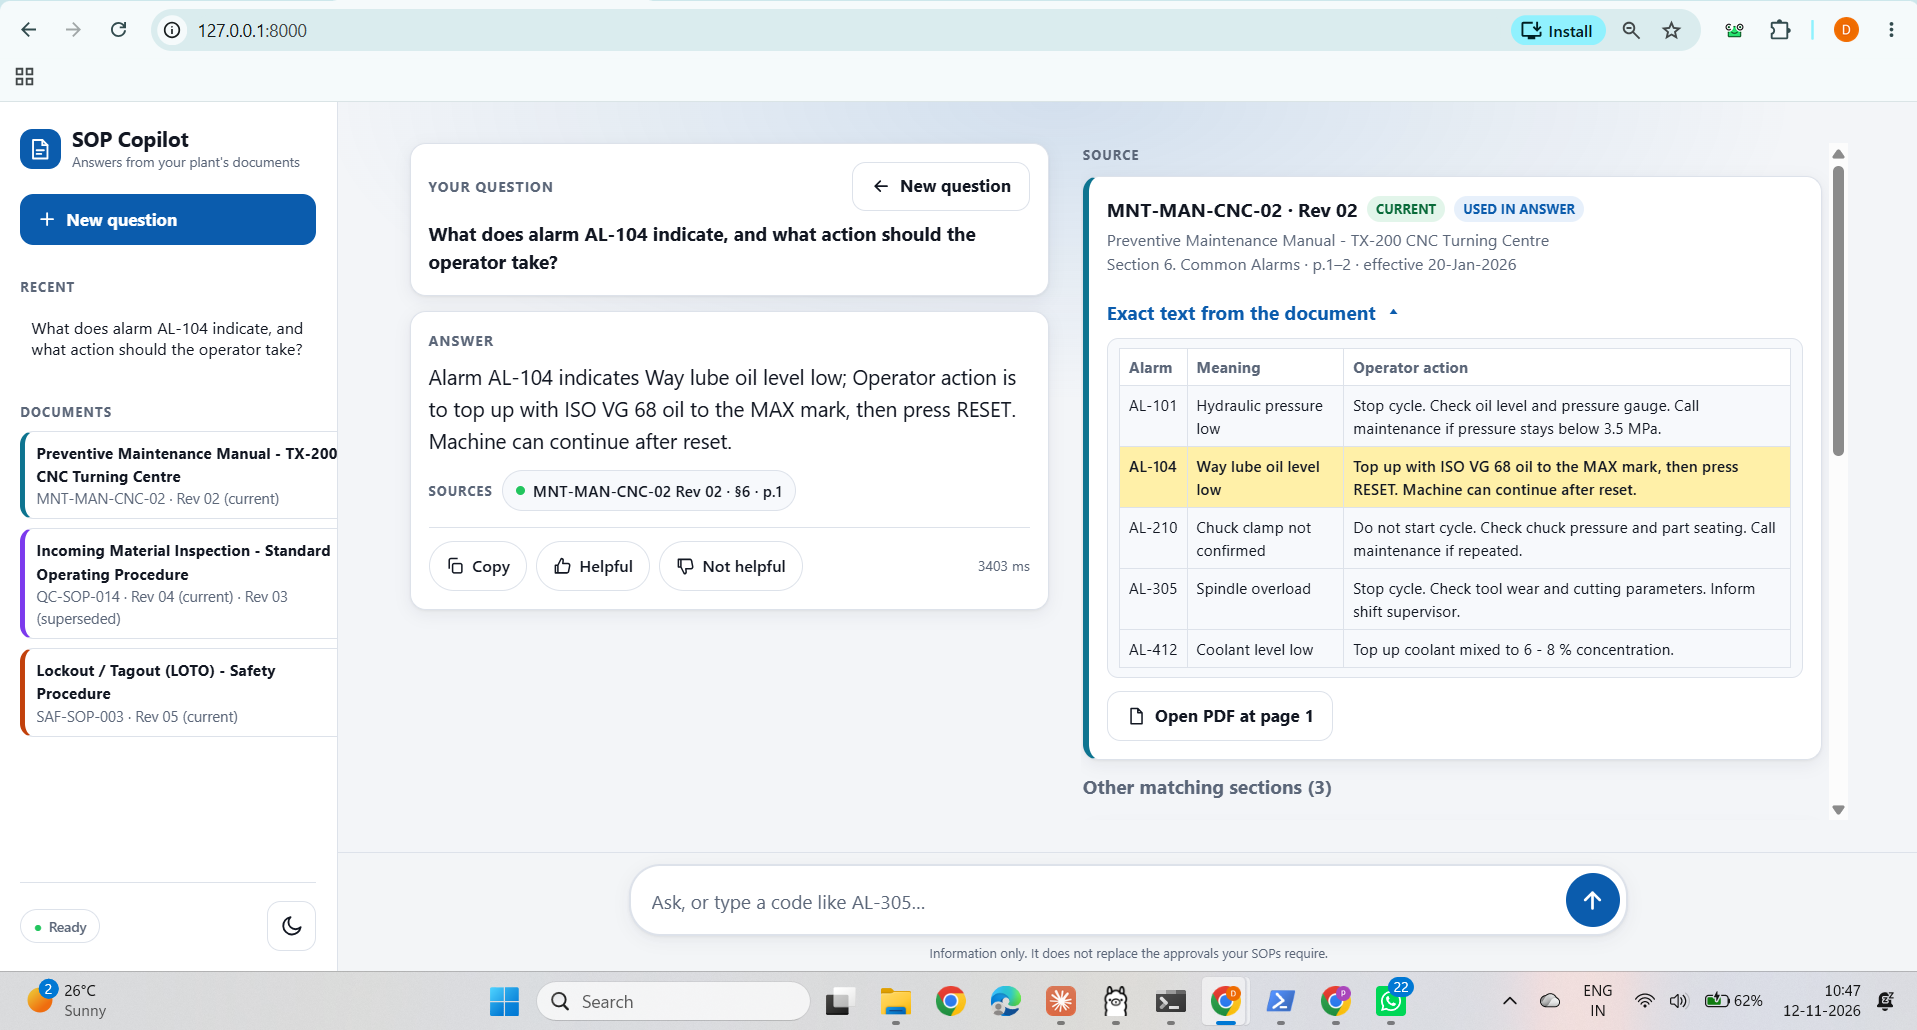
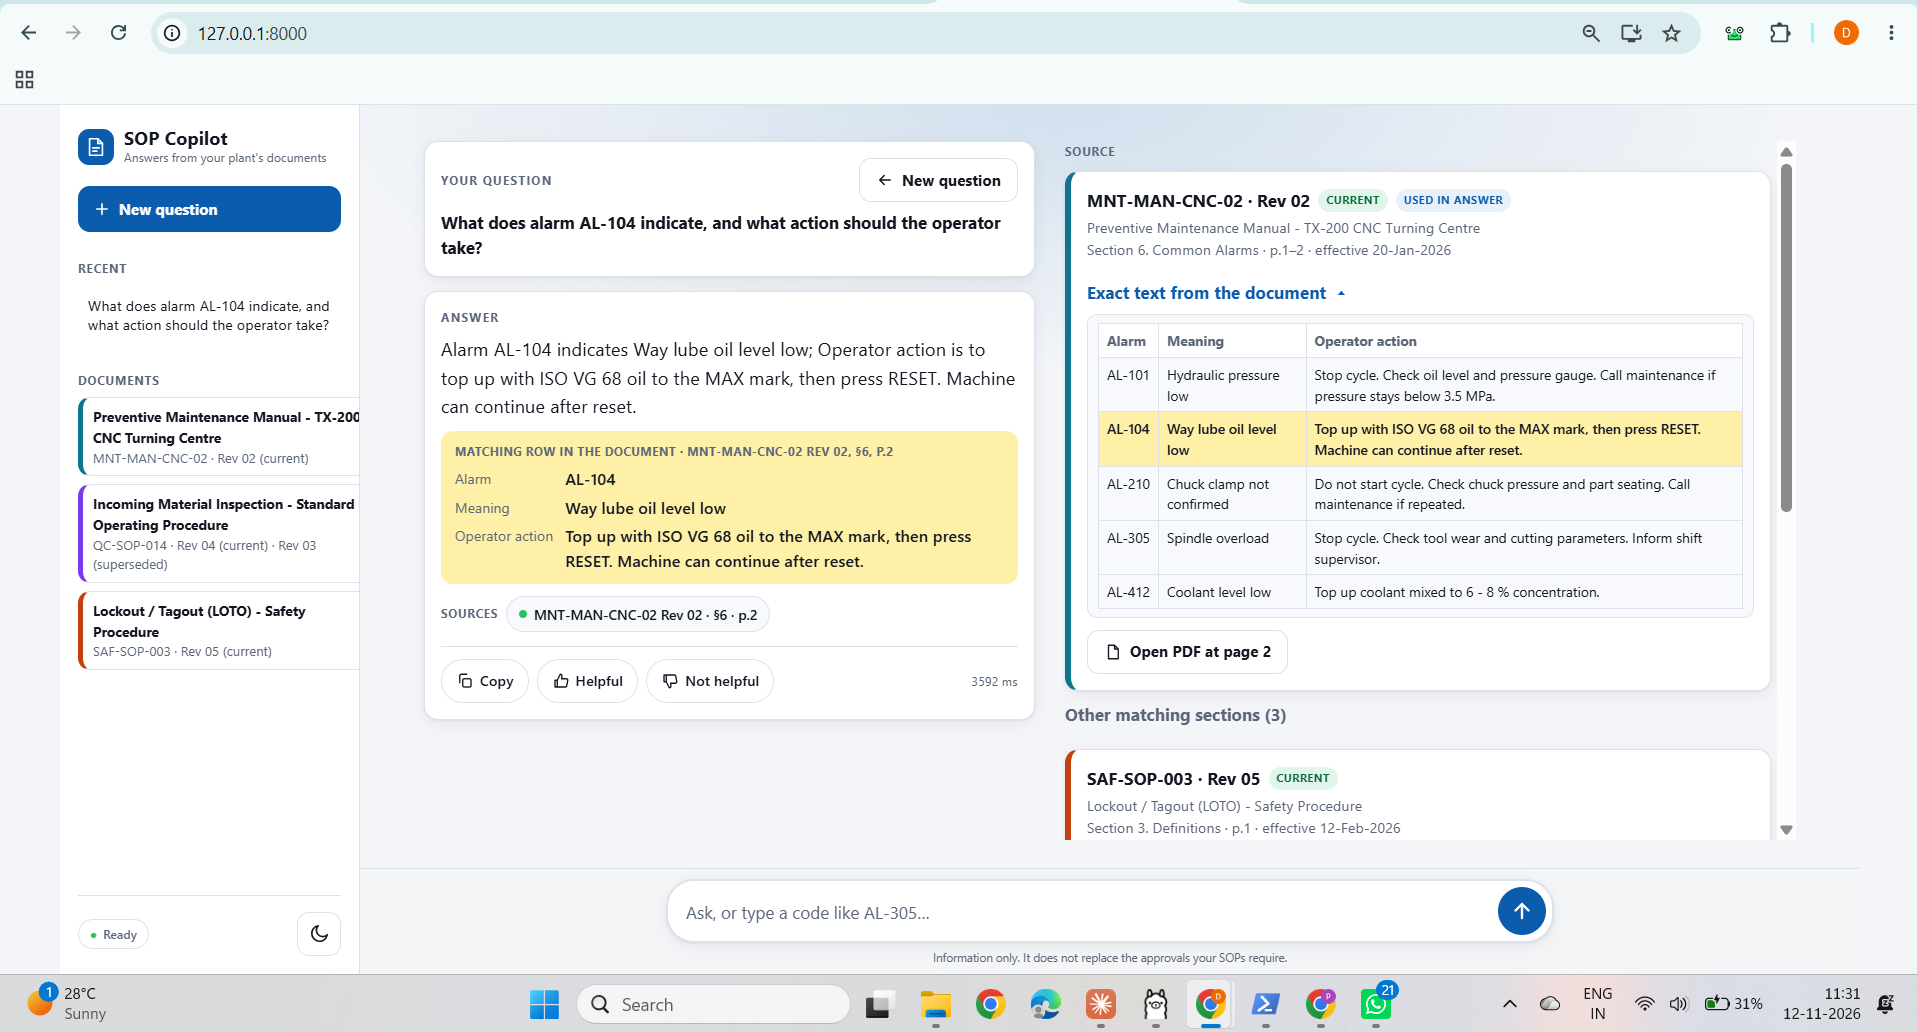
Replace outdated desktop screenshots with current ones (matching row, correct page 2 link); embed the other-sections view in the README

diff --git a/README.md b/README.md
@@ -15,7 +15,11 @@ Why these choices, and what I left out: see [FINAL_PLAN.md](FINAL_PLAN.md) and [
 
 ![Thinking indicator while the AI works](screenshots/desktop-2-loading.png)
 
-![Answer with source table, highlighted row, revision badge and PDF link](screenshots/desktop-3-answer.png)
+![Answer with the matching row copied from the document, source table, revision badge and "Open PDF at page 2"](screenshots/desktop-3-answer.png)
+
+The app also lists the other sections it considered, collapsed under "Other matching sections", each with its own page link:
+
+![Other matching sections the app considered](screenshots/desktop-4-other-sections.png)
 
 **Phone**, opened over the same Wi-Fi at `http://<laptop-ip>:8000` (a real phone, not an emulator). Same question, same answer, with the exact table row highlighted and a link to PDF page 2:
 
